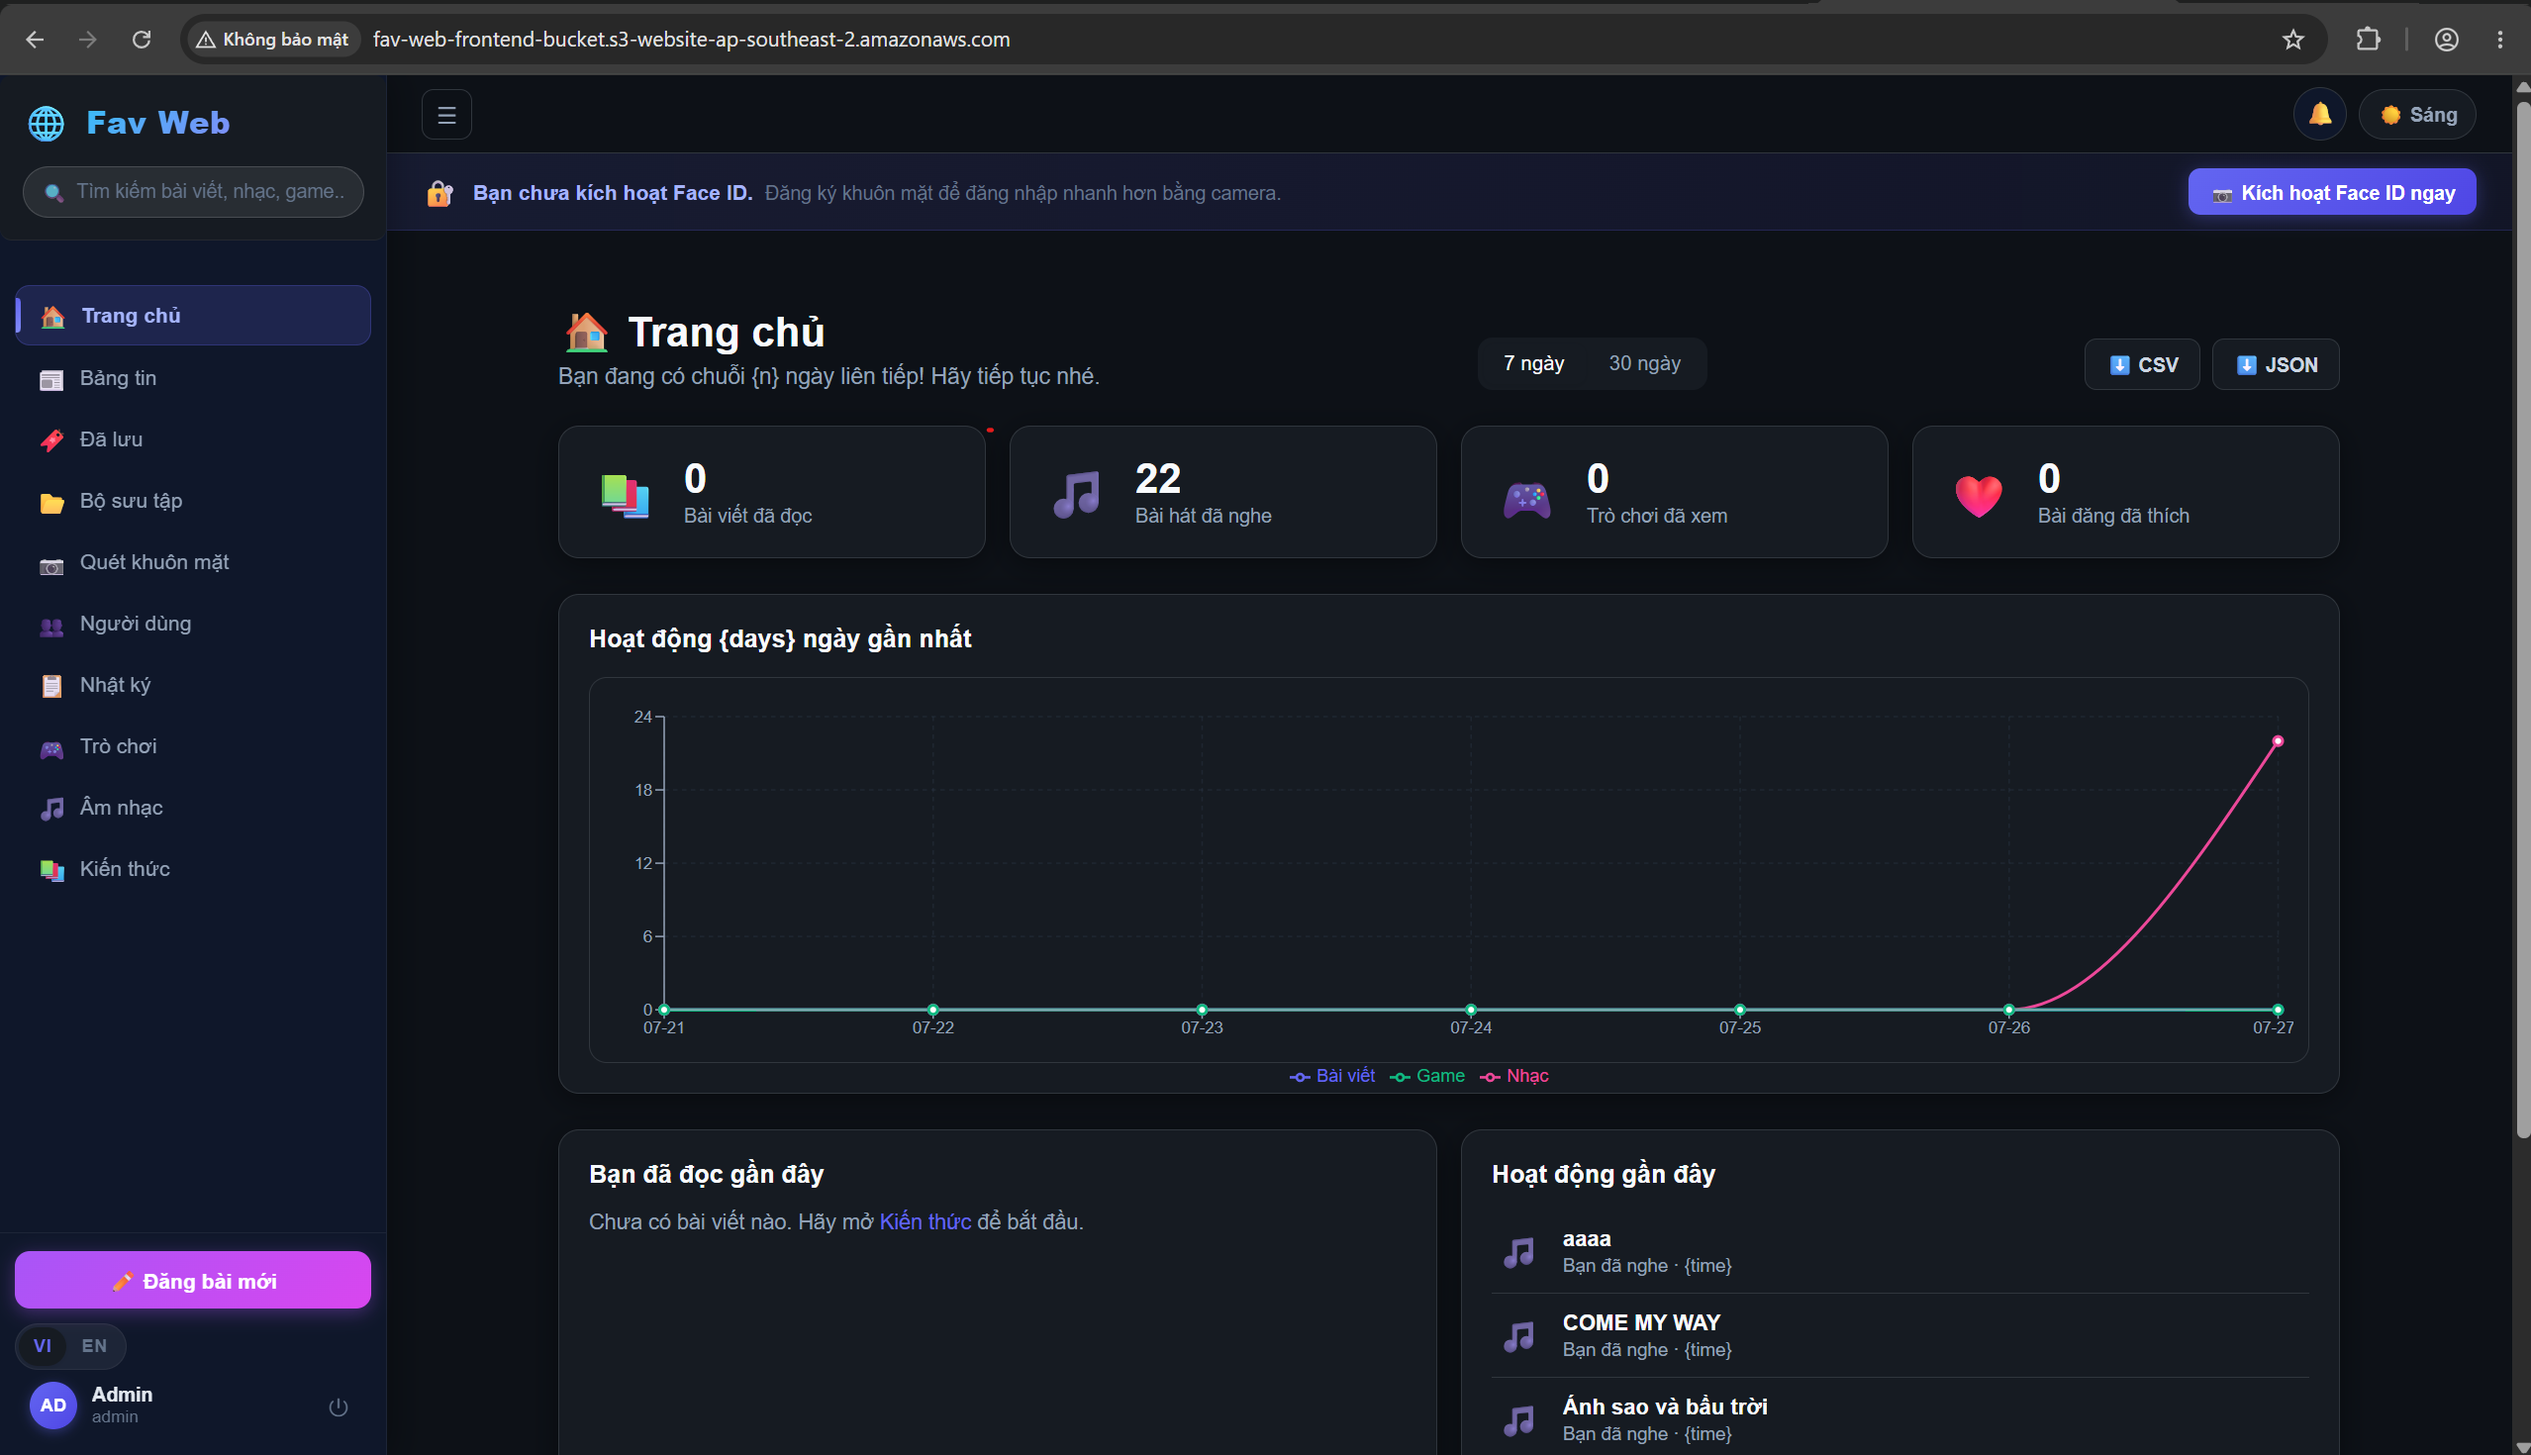
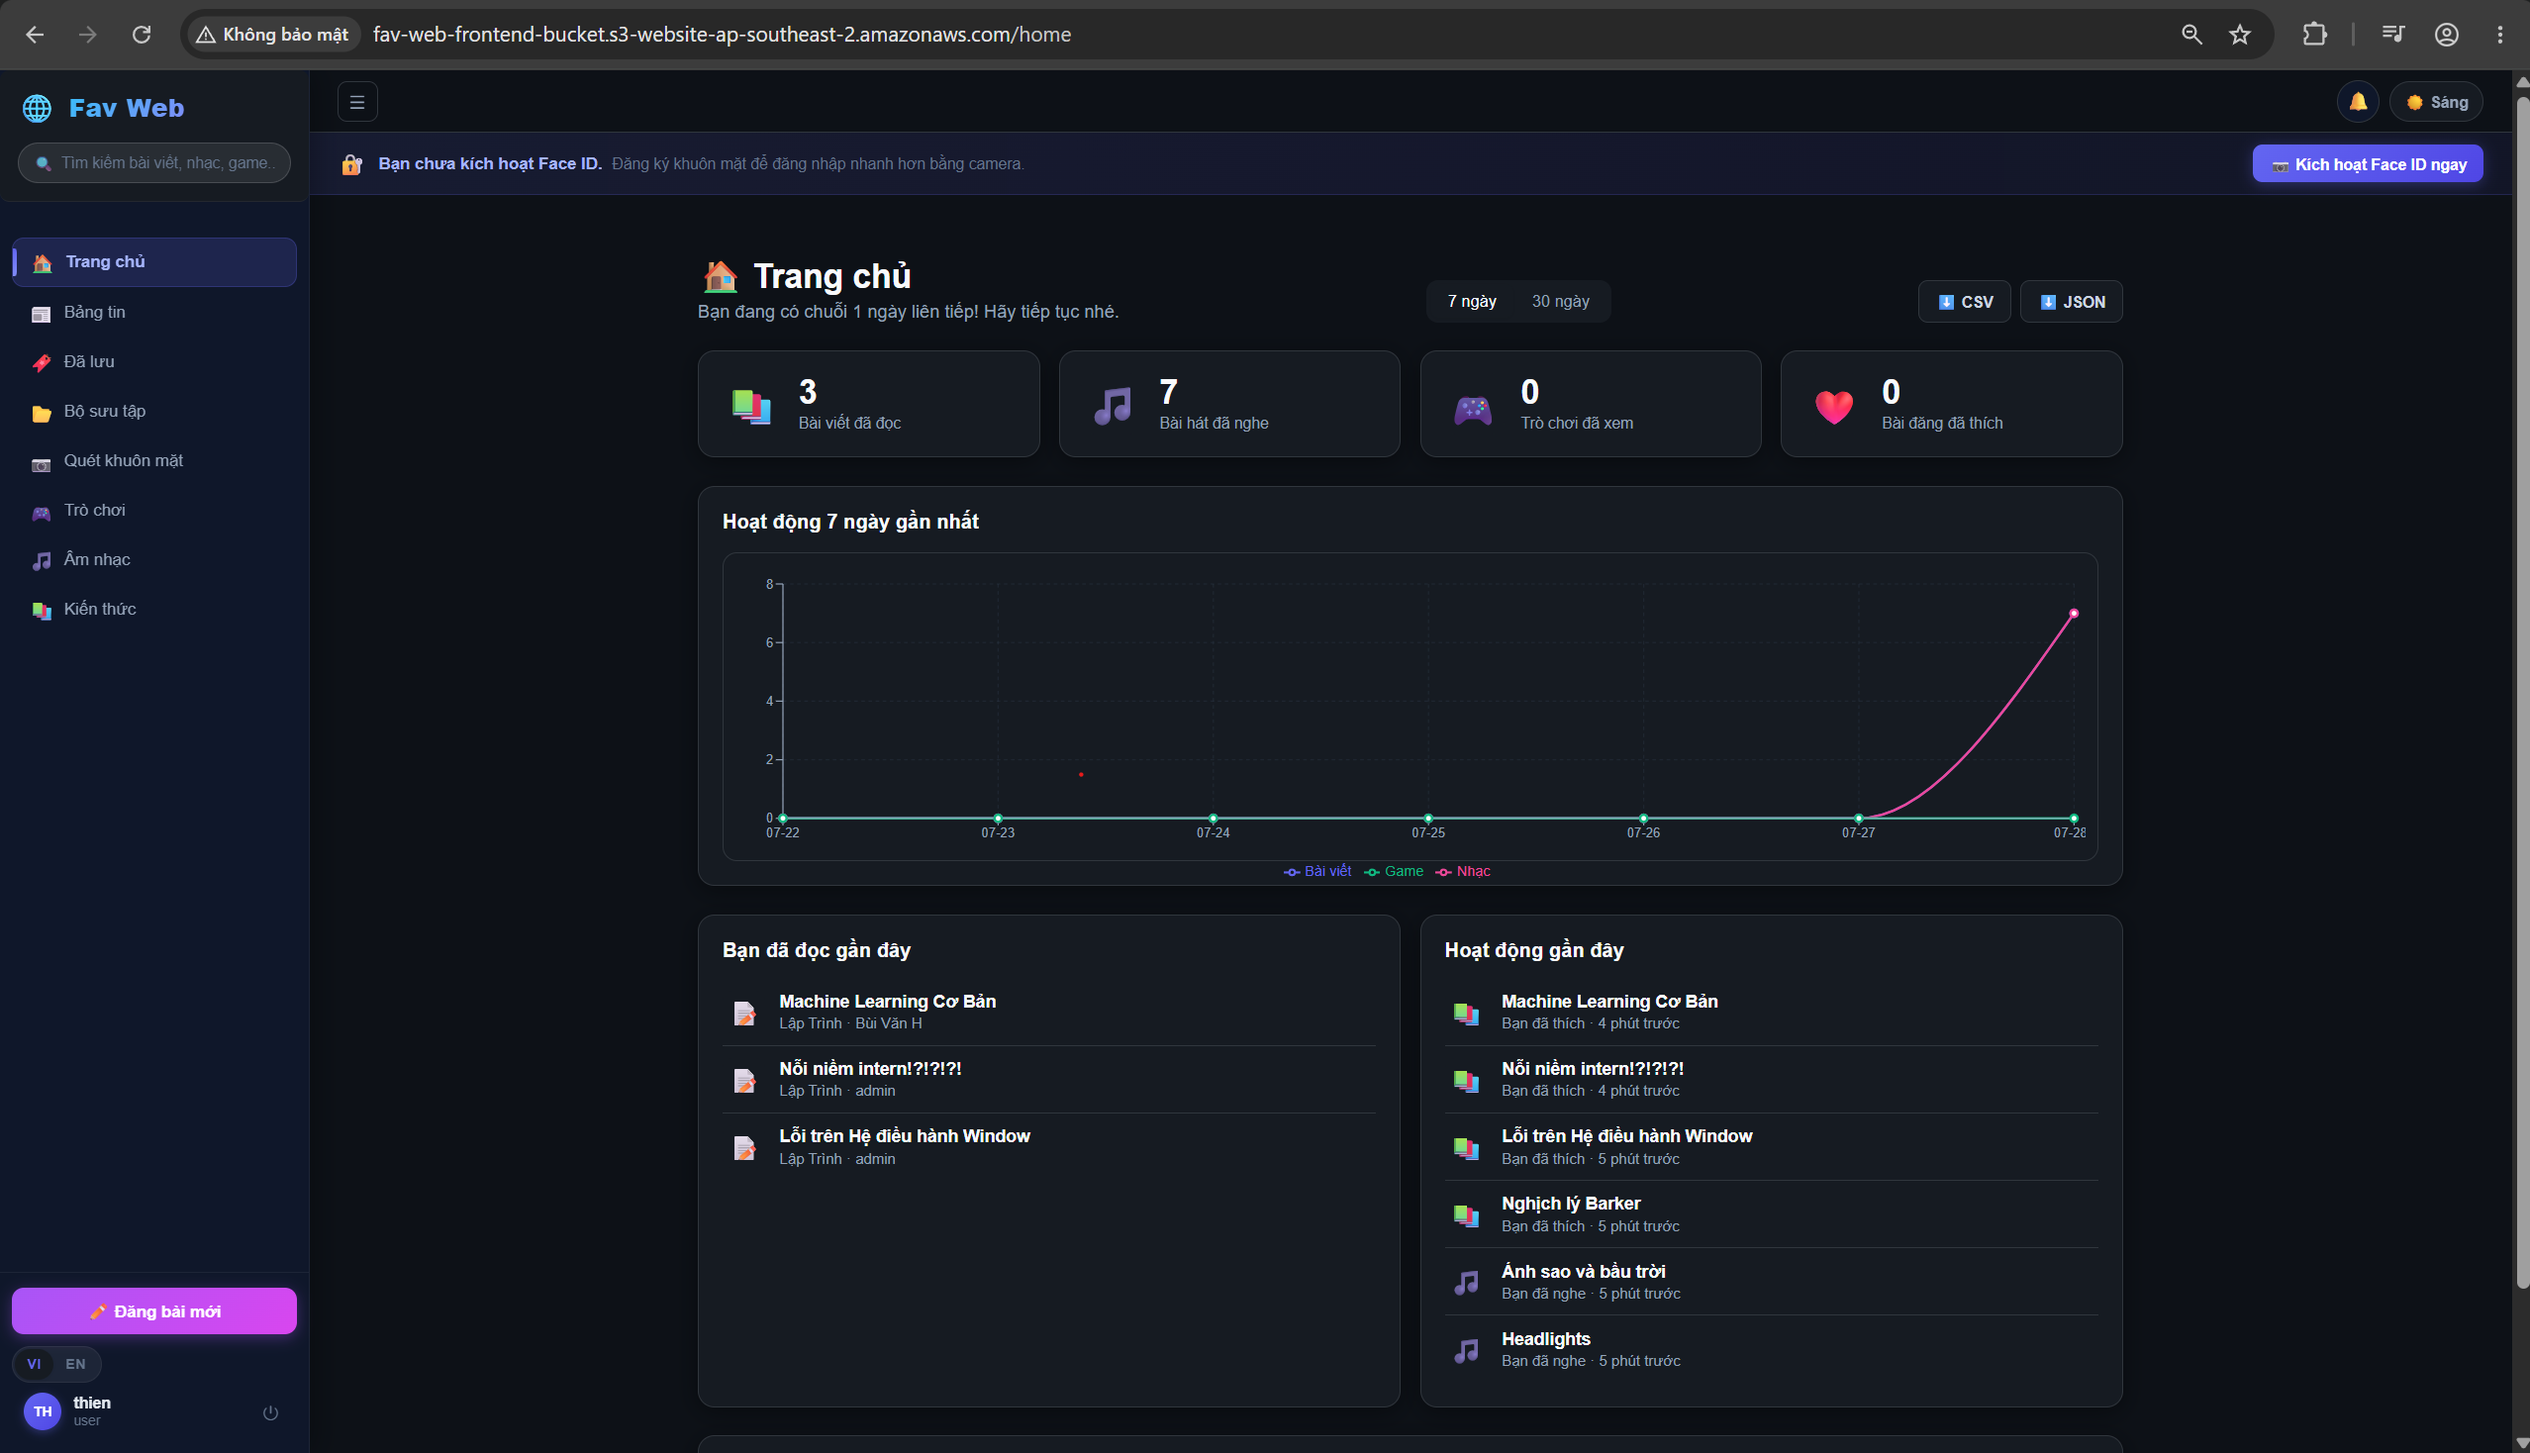
sửa lại ảnh AWS_ARCHITECTURE

diff --git a/content/5-Workshop/5.6-Test/_index.vi.md b/content/5-Workshop/5.6-Test/_index.vi.md
@@ -1,0 +1,61 @@
+---
+title : "Kiểm thử & Kiểm tra kết quả"
+date : 2026-07-24
+weight : 6
+chapter : false
+pre : " <b> 5.6. </b> "
+---
+
+#### Kiểm thử & Xác thực hệ thống (Test & Validation)
+
+Sau khi hoàn tất triển khai **Frontend trên S3**, **Backend Docker trên EC2** và cấu hình **Bảo mật CORS/CSP Policy**, tiến hành kiểm thử toàn bộ tính năng end-to-end của hệ thống **Fav Web Portal**.
+
+---
+
+#### 1. Kiểm thử Đăng nhập & Xác thực Face ID
+
+1. Truy cập vào đường dẫn Website S3 của Frontend:
+   `http://fav-web-frontend-bucket.s3-website-ap-southeast-2.amazonaws.com`
+
+2. Đăng nhập bằng tài khoản mặc định:
+   - **Username**: `admin`
+   - **Password**: `123456`
+
+3. Bấm **"📷 Kích hoạt Face ID ngay"**:
+   - Hệ thống mở Camera ➔ Quét 5 ảnh khuôn mặt liên tiếp để đăng ký mẫu khuôn mặt.
+   - Đăng xuất ➔ Thử đăng nhập lại bằng Camera ➔ Đăng nhập thành công vào hệ thống.
+
+---
+
+#### 2. Kiểm thử Trình phát nhạc ngầm liên tục (Background Audio Playback)
+
+1. Vào tab **🎵 Âm nhạc** ➔ Bấm phát một bài hát bất kỳ.
+2. Thử nghiệm các tính năng điều khiển:
+   - **🔀 Phát ngẫu nhiên (Shuffle):** Tự động chọn ngẫu nhiên bài tiếp theo khi kết thúc bài hát.
+   - **🔁 / 🔂 Chế độ Lặp (Repeat):** Lặp lại 1 bài hát duy nhất hoặc lặp lại toàn bộ danh sách phát.
+3. Chuyển sang các mục khác (**Trang chủ**, **Bảng tin**, **Kiến thức**, **Trò chơi**...):
+   - **Kết quả mong đợi:** Âm thanh tiếp tục phát mượt mà ngầm trong nền không bị gián đoạn hay ngắt bài.
+
+---
+
+#### 3. Kiểm thử Đăng bài & Quản lý xóa bài viết
+
+1. Bấm **"✏ Đăng bài mới"** ➔ Chọn tệp đính kèm (Ảnh/Video/Audio) ➔ Bấm **Đăng bài**.
+2. Kiểm tra bài viết xuất hiện ngay trên **Bảng tin (Feed)**.
+3. Thử nghiệm nút **`🗑 Xóa`** bài viết:
+   - Bấm nút xóa ➔ Xác nhận xóa ➔ Bài đăng và tệp media đính kèm bị gỡ vĩnh viễn khỏi server.
+
+---
+
+#### 4. Kiểm thử Bảo mật Header (CORS & CSP Header)
+
+Mở terminal kiểm tra HTTP Response Header từ EC2 Backend:
+
+```bash
+curl -i http://<EC2_PUBLIC_IP>/
+```
+
+**Kết quả mong đợi:**
+- Trả về HTTP `200 OK`
+- Phản hồi chứa Header `Content-Security-Policy: default-src 'self' ...`
+- Trả về JSON: `{"message": "Backend is running"}`

diff --git a/content/5-Workshop/5.6-Test/_index.md b/content/5-Workshop/5.6-Test/_index.md
@@ -1,0 +1,61 @@
+---
+title : "Testing & Validation"
+date : 2026-07-24
+weight : 6
+chapter : false
+pre : " <b> 5.6. </b> "
+---
+
+#### System Testing & Validation
+
+After completing the deployment of **Frontend on S3**, **Backend Docker on EC2**, and configuring **CORS/CSP Security Headers**, perform end-to-end testing of the **Fav Web Portal** application.
+
+---
+
+#### 1. Test Authentication & Face ID Login
+
+1. Access the Frontend S3 Website URL:
+   `http://fav-web-frontend-bucket.s3-website-ap-southeast-2.amazonaws.com`
+
+2. Log in using default credentials:
+   - **Username**: `admin`
+   - **Password**: `123456`
+
+3. Click **"📷 Activate Face ID"**:
+   - The system opens the camera and captures 5 continuous face samples.
+   - Log out ➔ Test camera sign-in ➔ Successfully authenticated via facial recognition.
+
+---
+
+#### 2. Test Background Audio Playback & Control Modes
+
+1. Navigate to **🎵 Music** tab ➔ Play any audio track.
+2. Test player modes:
+   - **🔀 Shuffle Mode:** Automatically selects a random track upon song completion.
+   - **🔁 / 🔂 Repeat Mode:** Repeat single track or loop full playlist.
+3. Switch to other pages (**Home**, **Feed**, **Knowledge**, **Games**...):
+   - **Expected Result:** Audio continues playing seamlessly in the background without interruption.
+
+---
+
+#### 3. Test Post Publishing & Article Deletion
+
+1. Click **"✏ Post New"** ➔ Attach image/video/audio ➔ Click **Publish**.
+2. Verify post appears on the **Feed**.
+3. Test **`🗑 Delete`** post button:
+   - Click delete ➔ Confirm deletion ➔ Post and attached media file removed permanently from server.
+
+---
+
+#### 4. Test Security Headers (CORS & CSP)
+
+Inspect HTTP Response Headers from the EC2 Backend:
+
+```bash
+curl -i http://<EC2_PUBLIC_IP>/
+```
+
+**Expected Result:**
+- HTTP `200 OK`
+- Response header contains `Content-Security-Policy: default-src 'self' ...`
+- JSON payload: `{"message": "Backend is running"}`

diff --git a/content/5-Workshop/_index.md b/content/5-Workshop/_index.md
@@ -21,4 +21,5 @@ The architecture combines AWS cloud services including **Amazon S3** (Static Web
 3. [Deploy React/Vite Frontend on Amazon S3](5.3-S3-vpc/)
 4. [Deploy FastAPI Docker Backend on Amazon EC2](5.4-S3-onprem/)
 5. [Security, IAM Policy, CORS & CSP Configuration](5.5-Policy/)
-6. [Resource Cleanup](5.6-Cleanup/)
+6. [Testing & Validation](5.6-Test/)
+7. [Resource Cleanup](5.7-Cleanup/)

diff --git a/content/5-Workshop/5.7-Cleanup/_index.vi.md b/content/5-Workshop/5.7-Cleanup/_index.vi.md
@@ -1,9 +1,9 @@
 ---
 title : "Dọn dẹp tài nguyên"
 date : 2026-07-24
-weight : 6
+weight : 7
 chapter : false
-pre : " <b> 5.6. </b> "
+pre : " <b> 5.7. </b> "
 ---
 
 #### Dọn dẹp tài nguyên trên AWS

diff --git a/content/5-Workshop/5.7-Cleanup/_index.md b/content/5-Workshop/5.7-Cleanup/_index.md
@@ -1,9 +1,9 @@
 ---
 title : "Resource Cleanup"
 date : 2026-07-24
-weight : 6
+weight : 7
 chapter : false
-pre : " <b> 5.6. </b> "
+pre : " <b> 5.7. </b> "
 ---
 
 #### Cleaning Up AWS Resources
